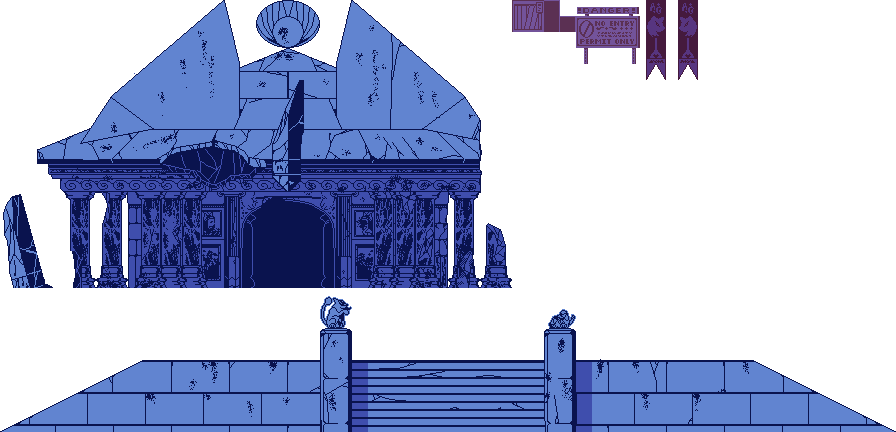
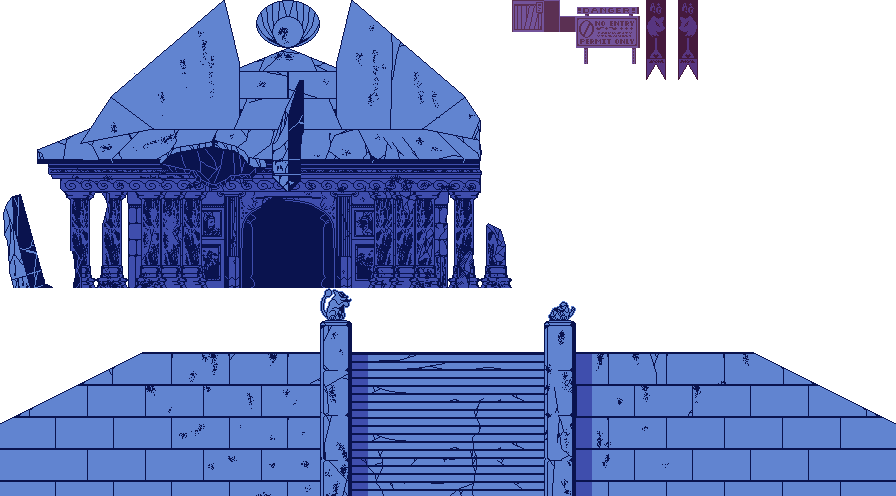
extend dungeon entrance staircase

diff --git a/src/town/areas/tomb_entrance.py b/src/town/areas/tomb_entrance.py
@@ -40,7 +40,7 @@ class TombEntranceArea(Area):
             layer="fg",
             pos=vector.add(
                 BG_LAYERGROUP_OFFSET,
-                (-160, assets.sprites["tomb_entrance_building"].get_height() - 72),
+                (-160, assets.sprites["tomb_entrance_building"].get_height() - 64),
             ),
         )),
     ]
